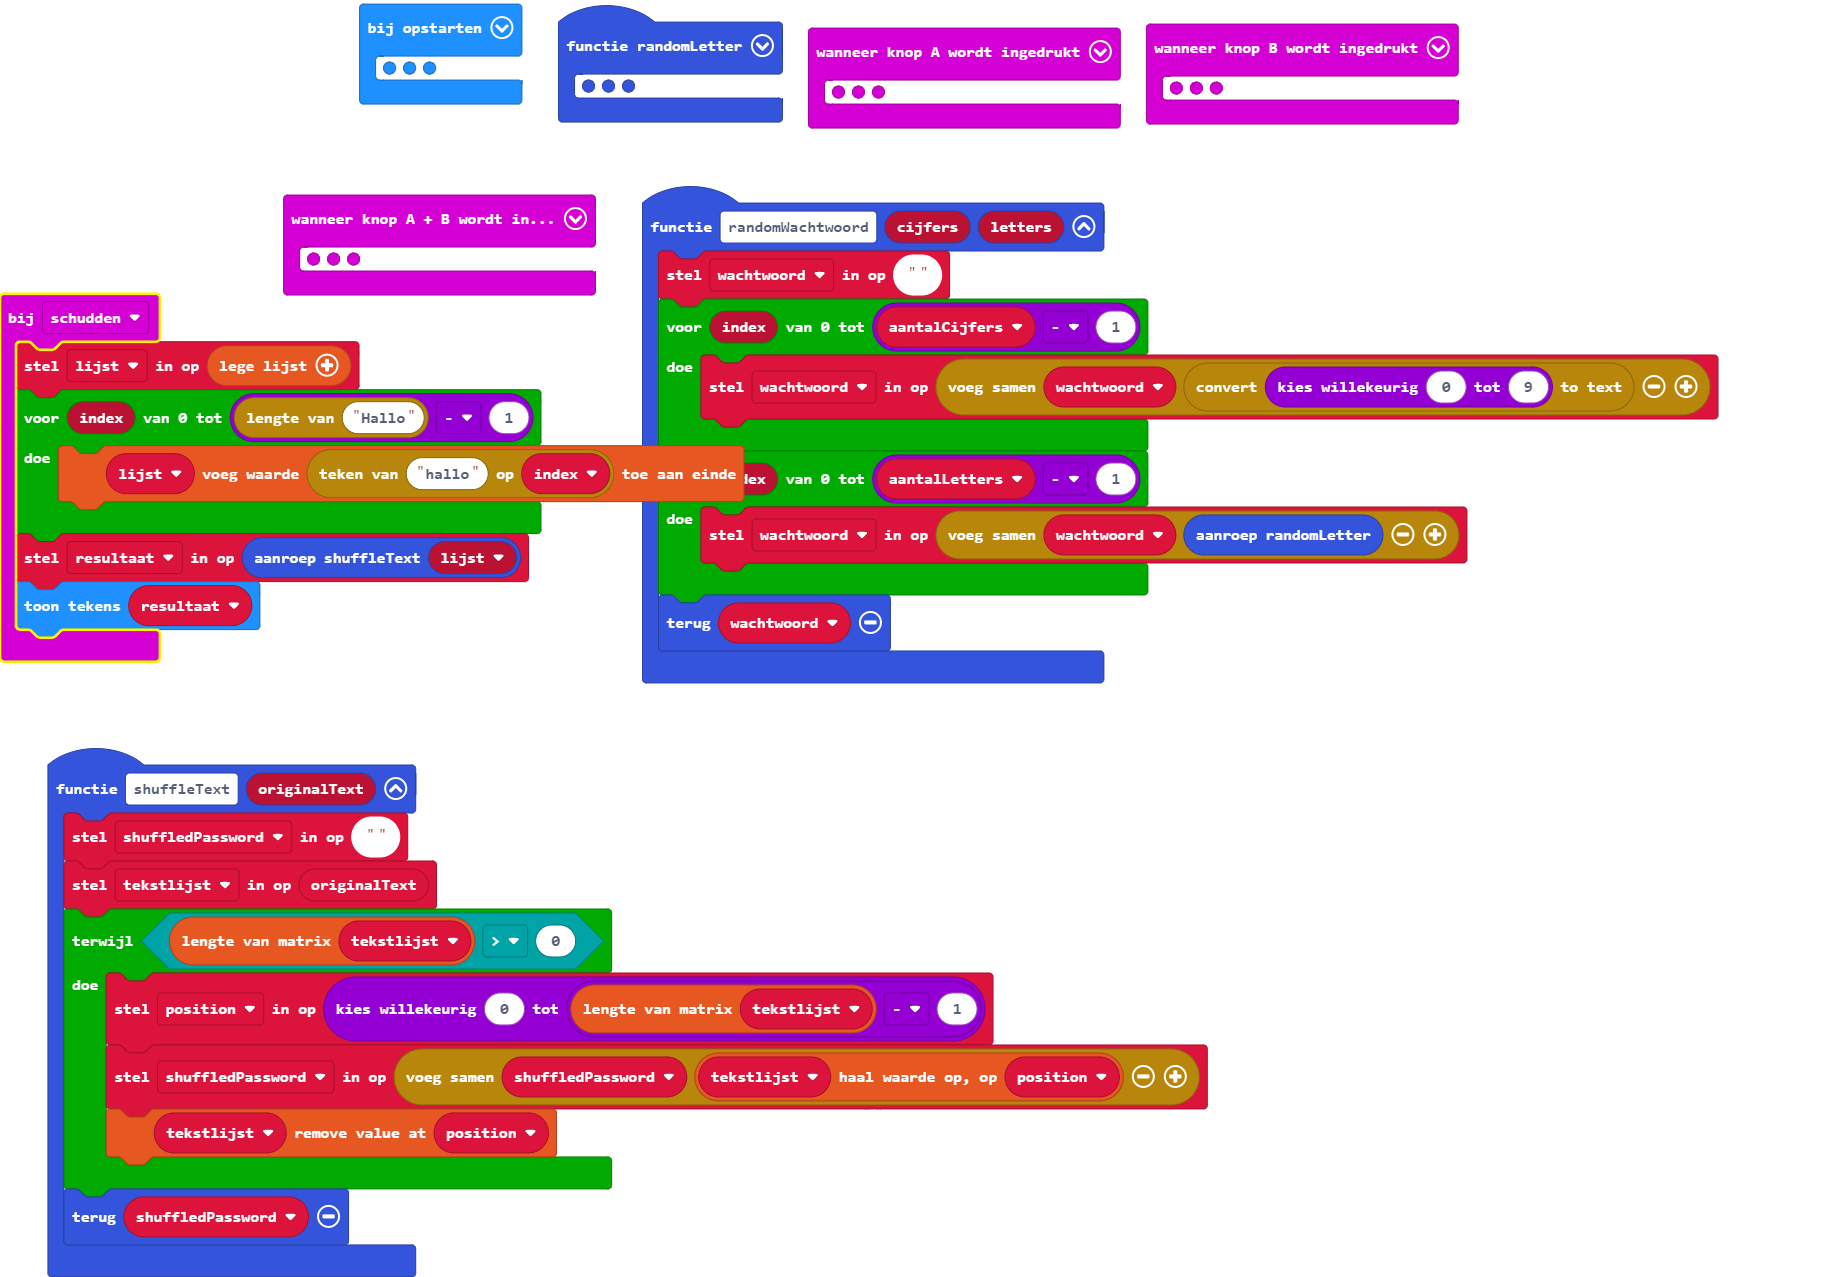
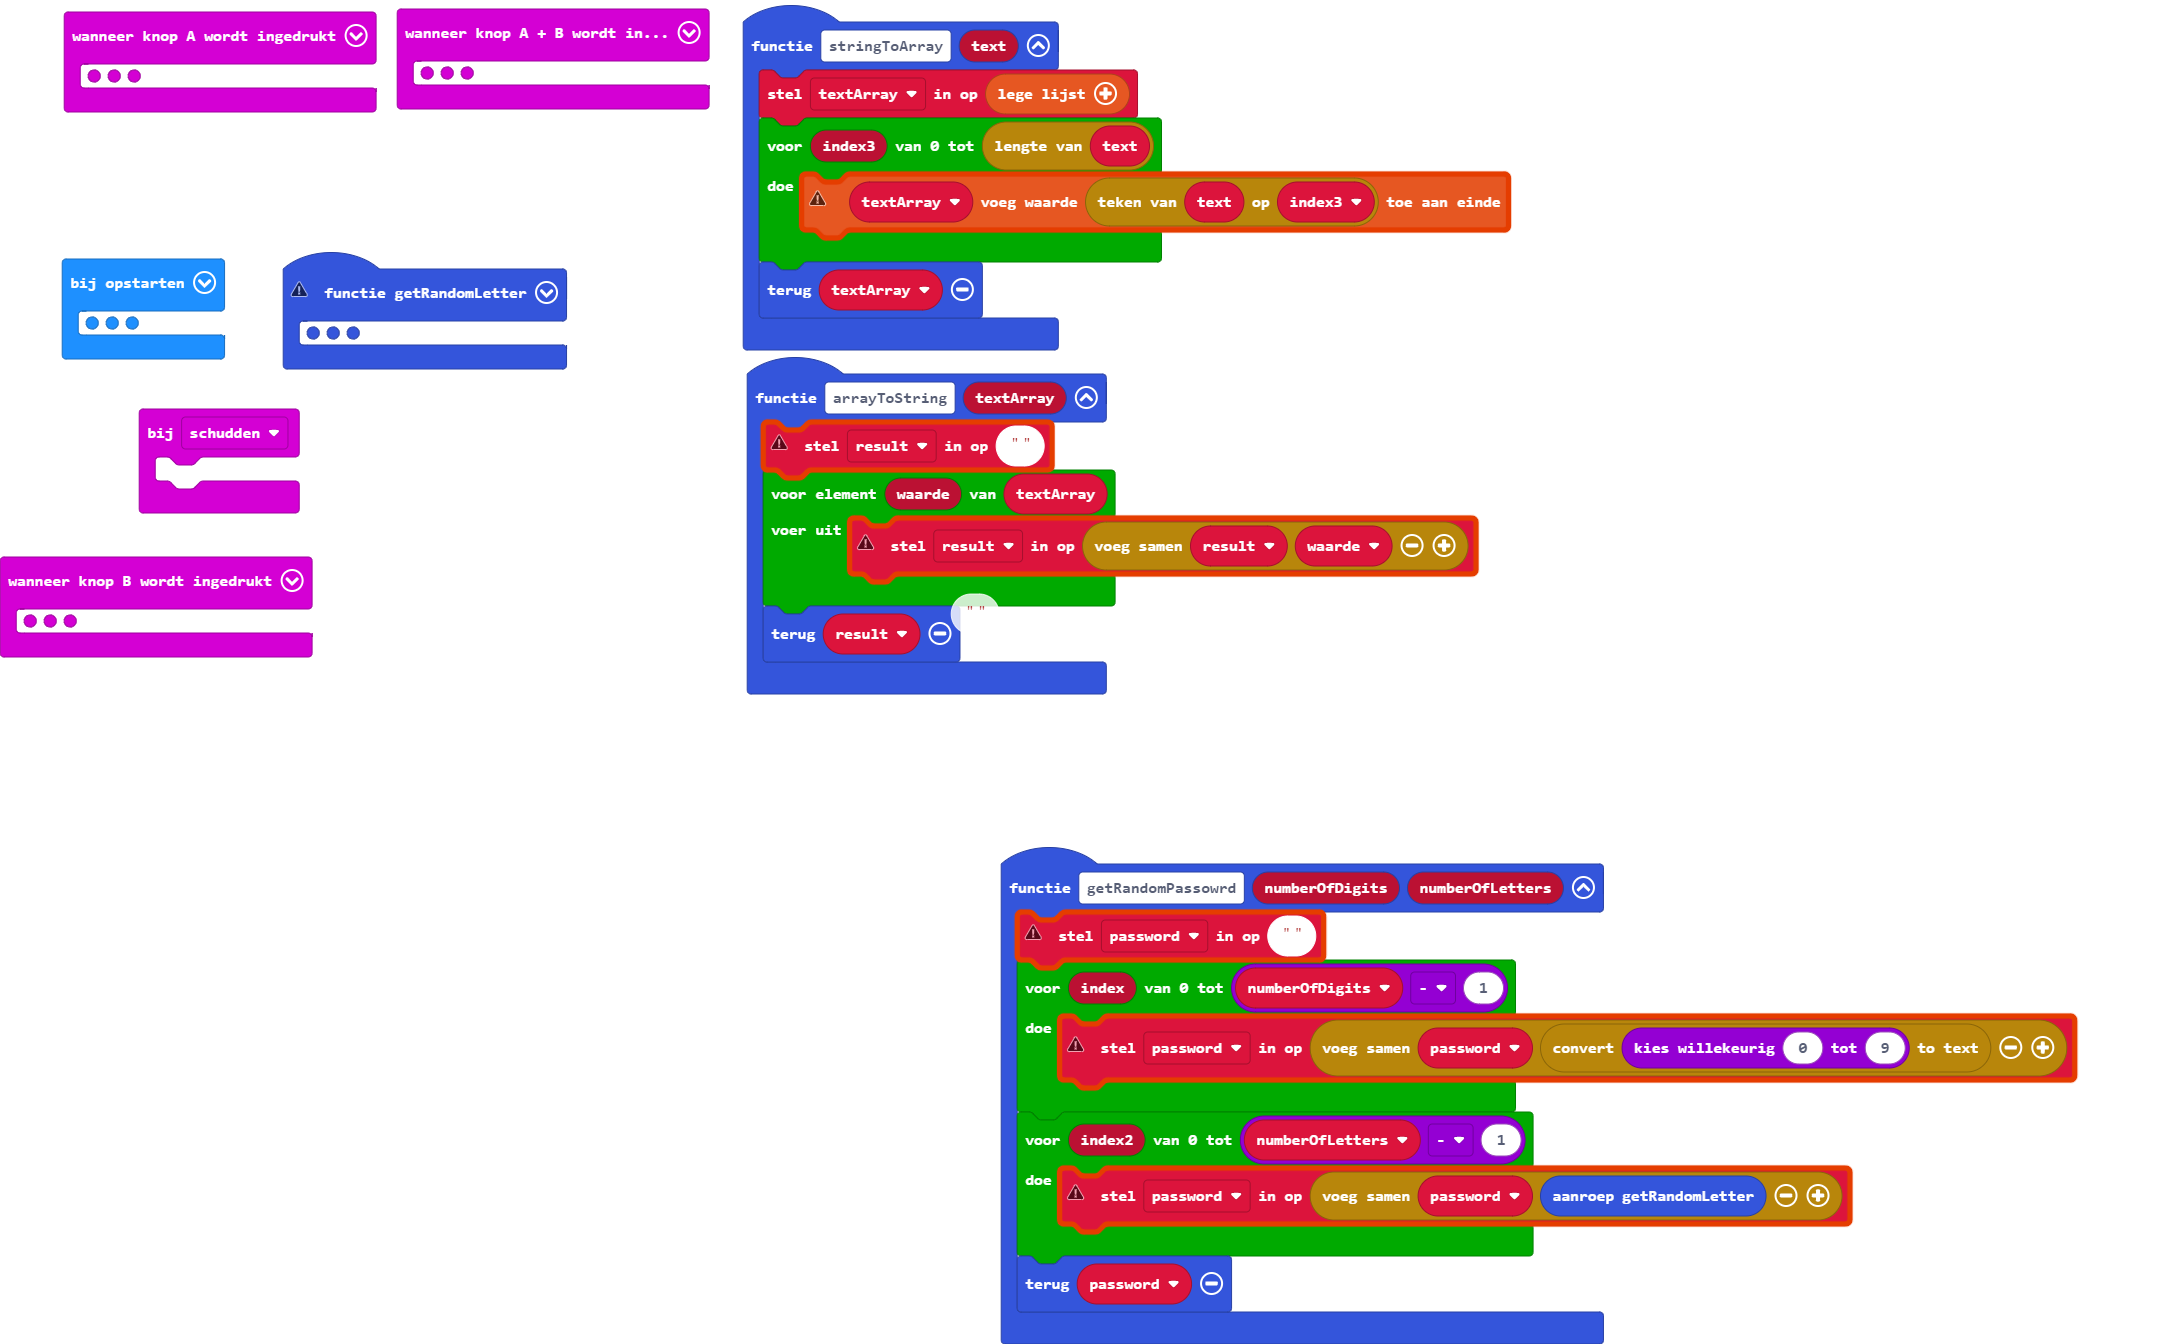
main.blocks, main.ts bijwerken

diff --git a/main.ts b/main.ts
@@ -1,3 +1,65 @@
+function getRandomLetter () {
+    if (Math.randomBoolean()) {
+        letter = String.fromCharCode(randint(65, 90))
+    } else {
+        letter = String.fromCharCode(randint(97, 122))
+    }
+    return letter
+}
+input.onButtonPressed(Button.A, function () {
+    numberOfLetters += 1
+})
+input.onGesture(Gesture.Shake, function () {
+	
+})
+function getRandomPassowrd (numberOfDigits: number, numberOfLetters: number) {
+    password = ""
+    for (let index = 0; index <= numberOfDigits - 1; index++) {
+        password = "" + password + convertToText(randint(0, 9))
+    }
+    for (let index2 = 0; index2 <= numberOfLetters - 1; index2++) {
+        password = "" + password + getRandomLetter()
+    }
+    return password
+}
+input.onButtonPressed(Button.AB, function () {
+    if (numberOfDigits < 2 || numberOfLetters < 4 || numberOfDigits + numberOfLetters < 8) {
+        basic.showIcon(IconNames.Sad)
+        music.playTone(131, music.beat(BeatFraction.Breve))
+    } else {
+        randomPassword = getRandomPassowrd(numberOfDigits, numberOfLetters)
+    }
+    basic.showString("" + (randomPassword))
+})
+input.onButtonPressed(Button.B, function () {
+    numberOfDigits += 1
+})
+function stringToArray (text: string) {
+    textArray = []
+    for (let index3 = 0; index3 <= text.length; index3++) {
+        textArray.push(text.charAt(index3))
+    }
+    return textArray
+}
+function arrayToString (textArray: any[]) {
+    result = ""
+    for (let waarde of textArray) {
+        result = "" + result + waarde
+    }
+    return result
+}
+let result: string[][][][][][][][] = []
+let textArray: string[][][][][][][][][] = []
+let randomPassword: string[][][][][][][][] = []
+let password: string[][][][][][][][] = []
+let letter: string[][][][][][][][] = []
+let numberOfLetters = 0
+let numberOfDigits = 0
+let shuffledPassword = ""
+let tekstlijst: any[] = []
+let position = 0
+let lijst: string[] = []
+let resultaat = ""
 function shuffleText (originalText: any[]) {
     shuffledPassword = ""
     tekstlijst = originalText
@@ -8,56 +70,5 @@ function shuffleText (originalText: any[]) {
     }
     return shuffledPassword
 }
-function randomWachtwoord (cijfers: number, letters: number) {
-    wachtwoord = ""
-    for (let index = 0; index <= aantalCijfers - 1; index++) {
-        wachtwoord = "" + wachtwoord + convertToText(randint(0, 9))
-    }
-    for (let index = 0; index <= aantalLetters - 1; index++) {
-        wachtwoord = "" + wachtwoord + randomLetter()
-    }
-    return wachtwoord
-}
-function randomLetter () {
-    if (Math.randomBoolean()) {
-        letter = String.fromCharCode(randint(65, 90))
-    } else {
-        letter = String.fromCharCode(randint(97, 122))
-    }
-    return letter
-}
-input.onButtonPressed(Button.A, function () {
-    aantalLetters += 1
-})
-input.onGesture(Gesture.Shake, function () {
-    lijst = []
-    for (let index = 0; index <= "Hallo".length - 1; index++) {
-        lijst.push("hallo".charAt(index))
-    }
-    resultaat = shuffleText(lijst)
-    basic.showString("" + (resultaat))
-})
-input.onButtonPressed(Button.AB, function () {
-    if (aantalCijfers < 2 || aantalLetters < 4 || aantalCijfers + aantalLetters < 8) {
-        basic.showIcon(IconNames.Sad)
-        music.playTone(131, music.beat(BeatFraction.Breve))
-    } else {
-        randomPassword = randomWachtwoord(aantalCijfers, aantalLetters)
-    }
-    basic.showString("" + (randomPassword))
-})
-input.onButtonPressed(Button.B, function () {
-    aantalCijfers += 1
-})
-let randomPassword = ""
-let resultaat = ""
-let lijst: string[] = []
-let letter = ""
-let wachtwoord = ""
-let position = 0
-let tekstlijst: any[] = []
-let shuffledPassword = ""
-let aantalLetters = 0
-let aantalCijfers = 0
-aantalCijfers = 0
-aantalLetters = 0
+numberOfDigits = 0
+numberOfLetters = 0
